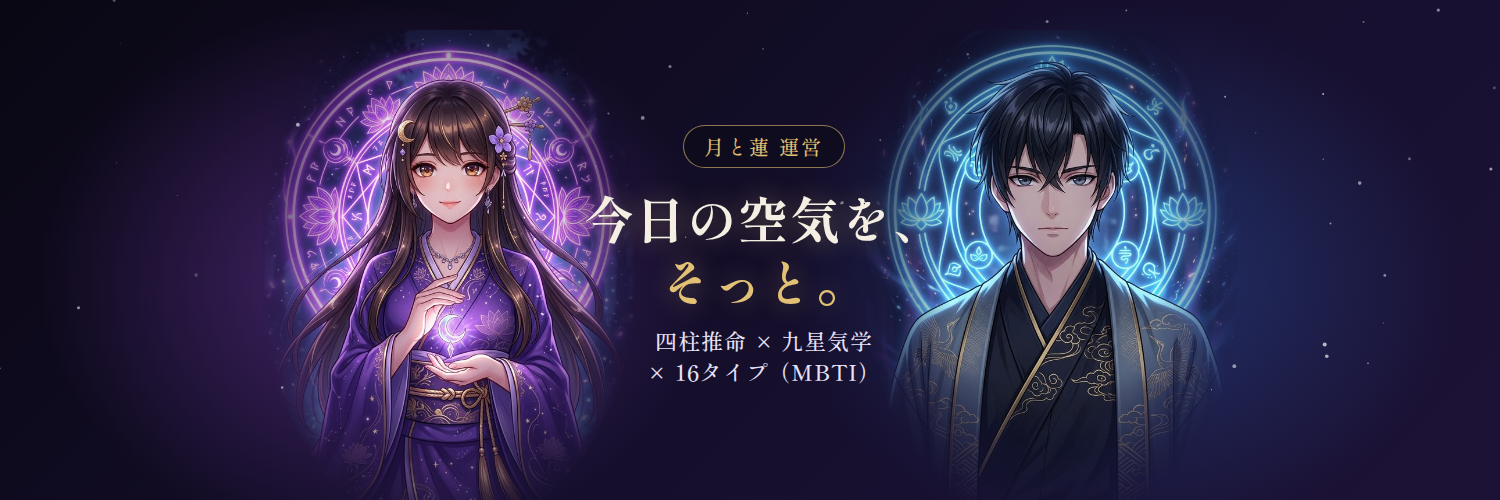
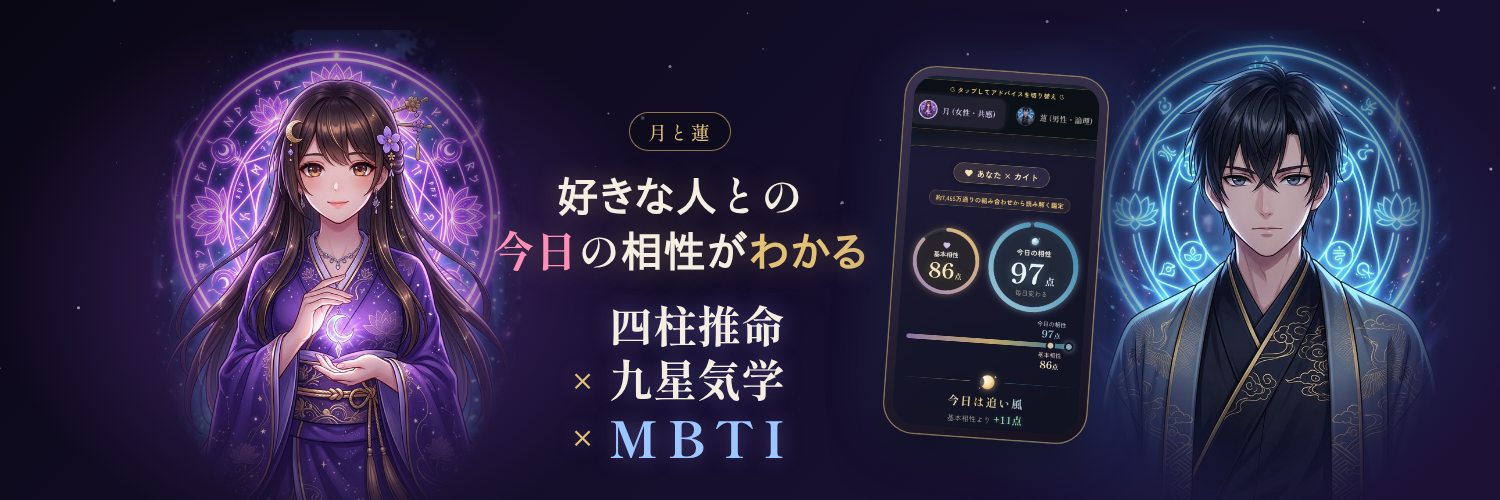
Xプロフィールのヘッダー画像：四柱推命・九星気学・MBTIを縦積みで大きく (#276)
* Xプロフィールのヘッダー画像を作り直し：四柱推命・九星気学・MBTIを縦積みで大きく

トップOGP（A案）と同じ配置・書体。素材は docs/x-profile/ogp/ を使い、
header-top.html から1500×500で撮って header.png を更新。

Claude-Session: https://claude.ai/code/session_019582yCiujsVbX9raqTZ6j6

* Xヘッダー：10/28版のまま、方式の行だけ縦積み・大きく

「好きな人との今日の相性がわかる」やキャラ・アプリ画面は10/28版の画像のまま。
header-base.png は10/28版から方式の1行だけ消した画像で、header-top.html で縦積みの文字を重ねる。

Claude-Session: https://claude.ai/code/session_019582yCiujsVbX9raqTZ6j6

* Xヘッダー：方式3行の頭と幅をそろえる（×は別の列、MBTIは字間で4文字幅に）

Claude-Session: https://claude.ai/code/session_019582yCiujsVbX9raqTZ6j6

---------

diff --git a/docs/x-profile/header-top.html b/docs/x-profile/header-top.html
@@ -1,0 +1,17 @@
+<!doctype html><meta charset="utf-8"><!-- Xヘッダー（2026-11-01）。header-base.png は 10/28版（A案）から「四柱推命 × 九星気学 × MBTI」の1行だけ消した画像。その行を縦積み・大きくして重ねる。Playwrightで1500×500を撮る -->
+<style>
+@font-face{font-family:'SM';font-weight:700;src:url('../../scripts/x/assets/ShipporiMincho-Bold.ttf')}
+html,body{margin:0;width:1500px;height:500px;overflow:hidden}
+.h{position:relative;width:1500px;height:500px;background:url('header-base.png');font-family:'SM',serif;color:#f4efe2}
+/* 方式名の左端と幅をそろえる：×は別の列、名前は4文字幅に均等割り */
+.m{position:absolute;left:0;top:300px;width:1500px;display:flex;justify-content:center}
+.g{display:grid;grid-template-columns:40px 176px;row-gap:6px;align-items:center;margin-left:-40px;margin-left:calc(697px*2 - 1500px - 40px);text-shadow:0 0 22px rgba(160,140,255,.45)}
+.x{color:#e2c074;font-size:30px;text-align:left;line-height:1}
+.n{font-size:44px;line-height:1.1;text-align-last:justify;white-space:nowrap}
+.n.b{color:#9cc6ff;font-size:50px;letter-spacing:9.3px;margin-right:calc(-1*9.3px)}
+</style>
+<div class="h"><div class="m"><div class="g">
+<span class="x"></span><span class="n">四柱推命</span>
+<span class="x">×</span><span class="n">九星気学</span>
+<span class="x">×</span><span class="n b">MBTI</span>
+</div></div></div>
